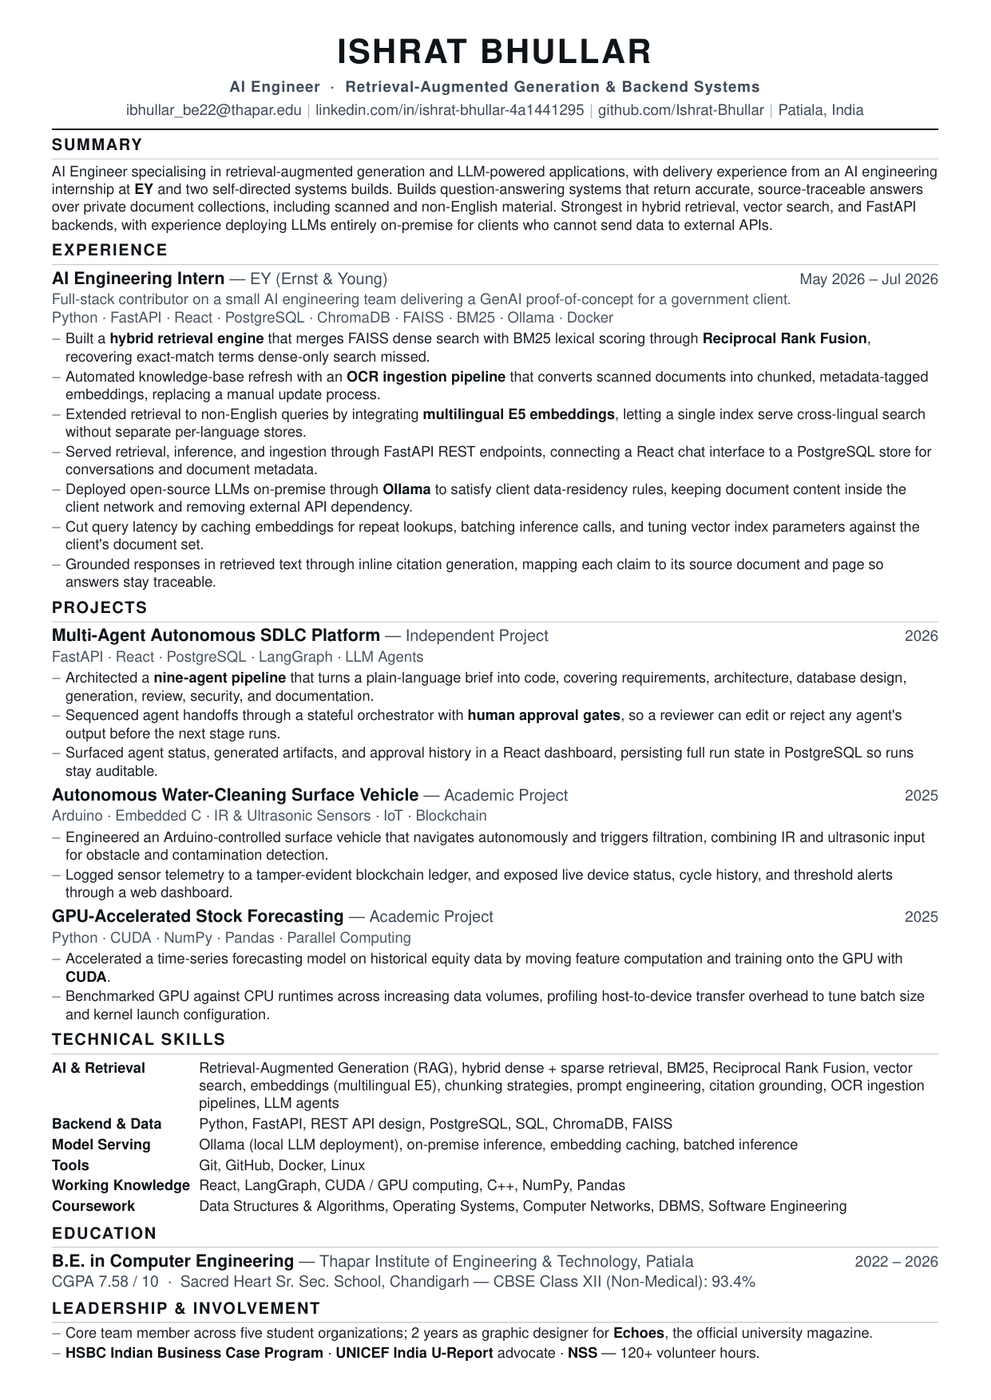
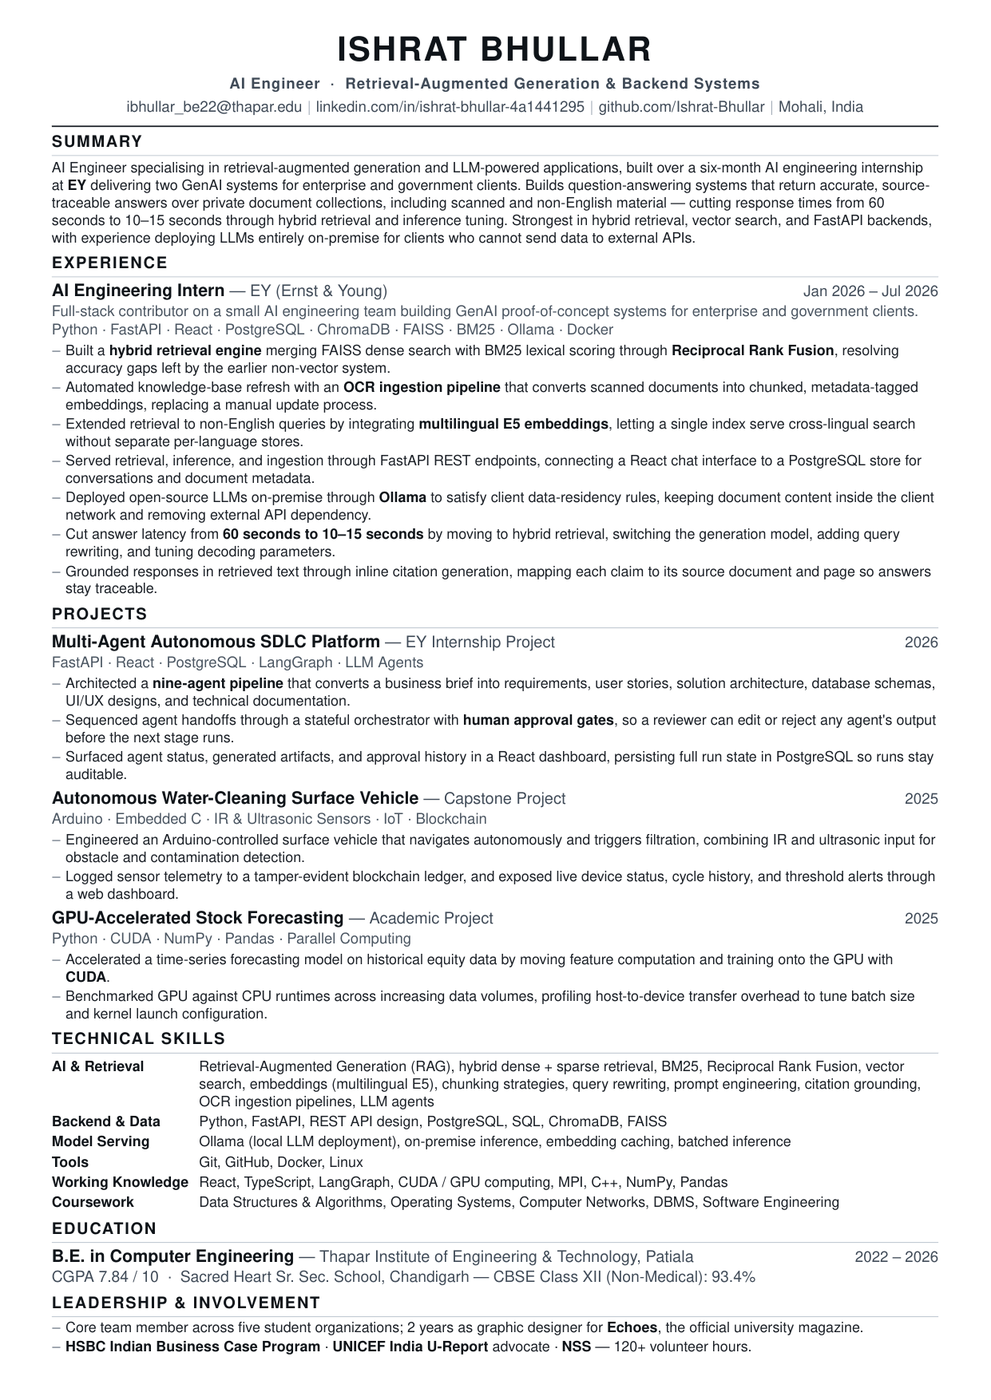
chore(resume): publish the updated resume, phone removed
The updated resume resolves both mismatches against the Project Semester
Report: the internship now reads Jan–Jul 2026, and the SDLC pipeline is
described as nine agents. It is also reframed as an EY internship project
rather than independent work.

Phone number stripped from the content stream as before, and the contact line
reflowed and re-centred. Profile location updated to Mohali to match.

Changed region(s): [[0.0303, 0.0307, 0.9384, 0.9829]]

diff --git a/README.md b/README.md
@@ -335,7 +335,7 @@ Supporting designs that span the projects above.
 
 <br>
 
-<sub>Open to AI engineering and backend roles · Patiala, India</sub>
+<sub>Open to AI engineering and backend roles · Mohali, India</sub>
 
 </div>
 
